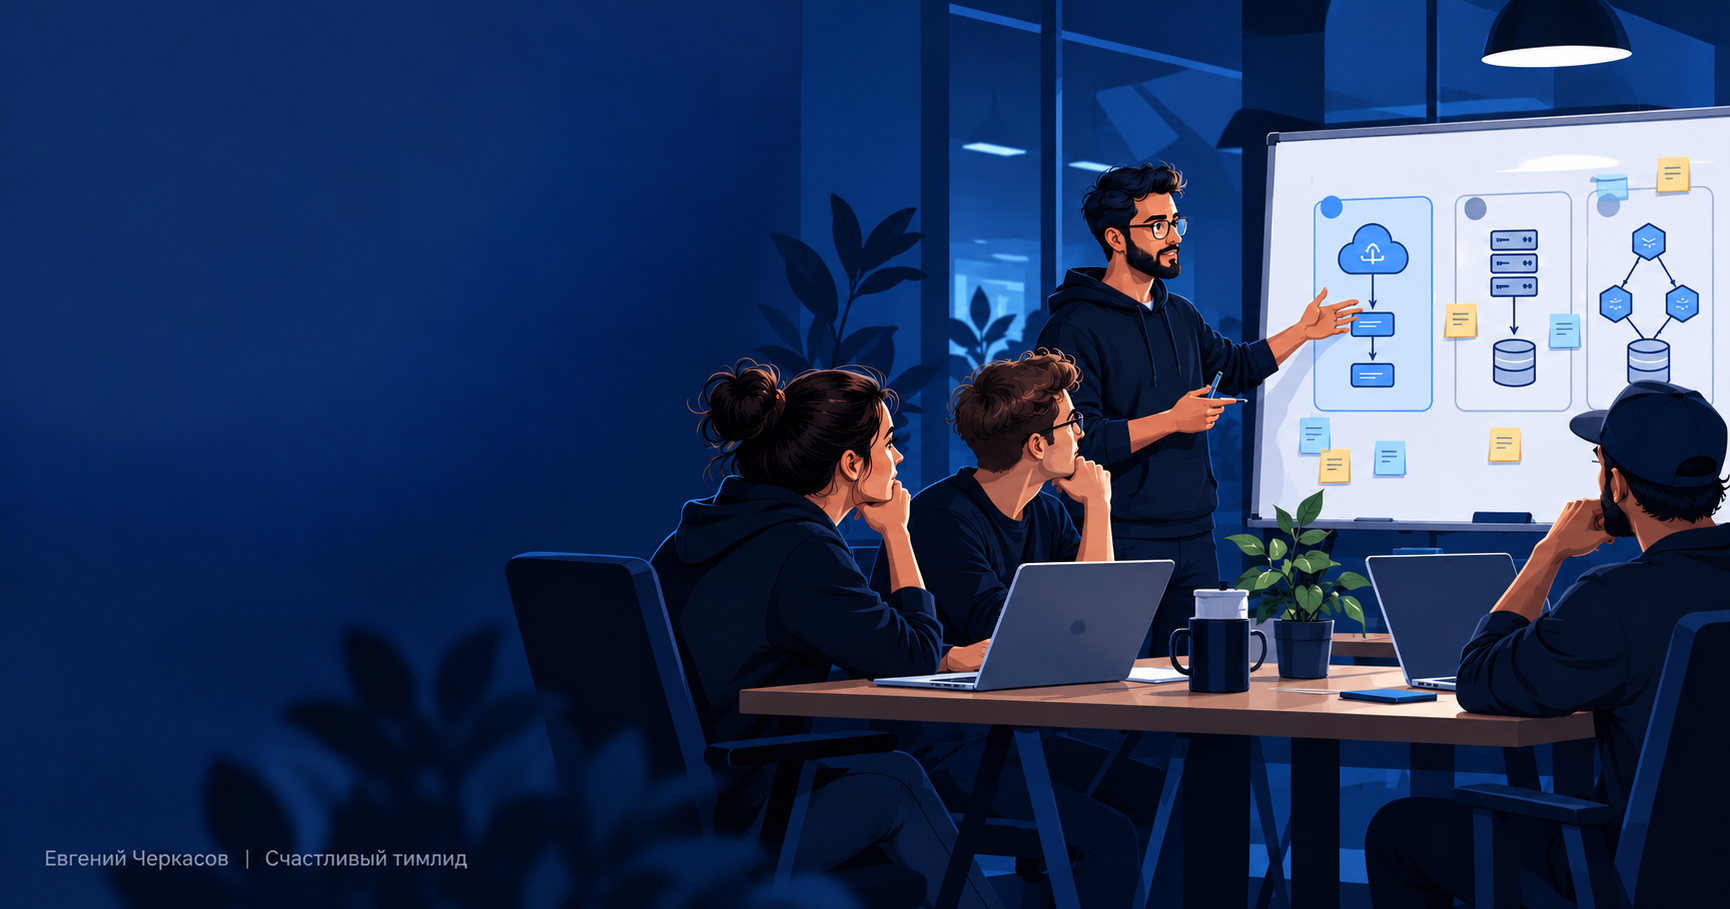
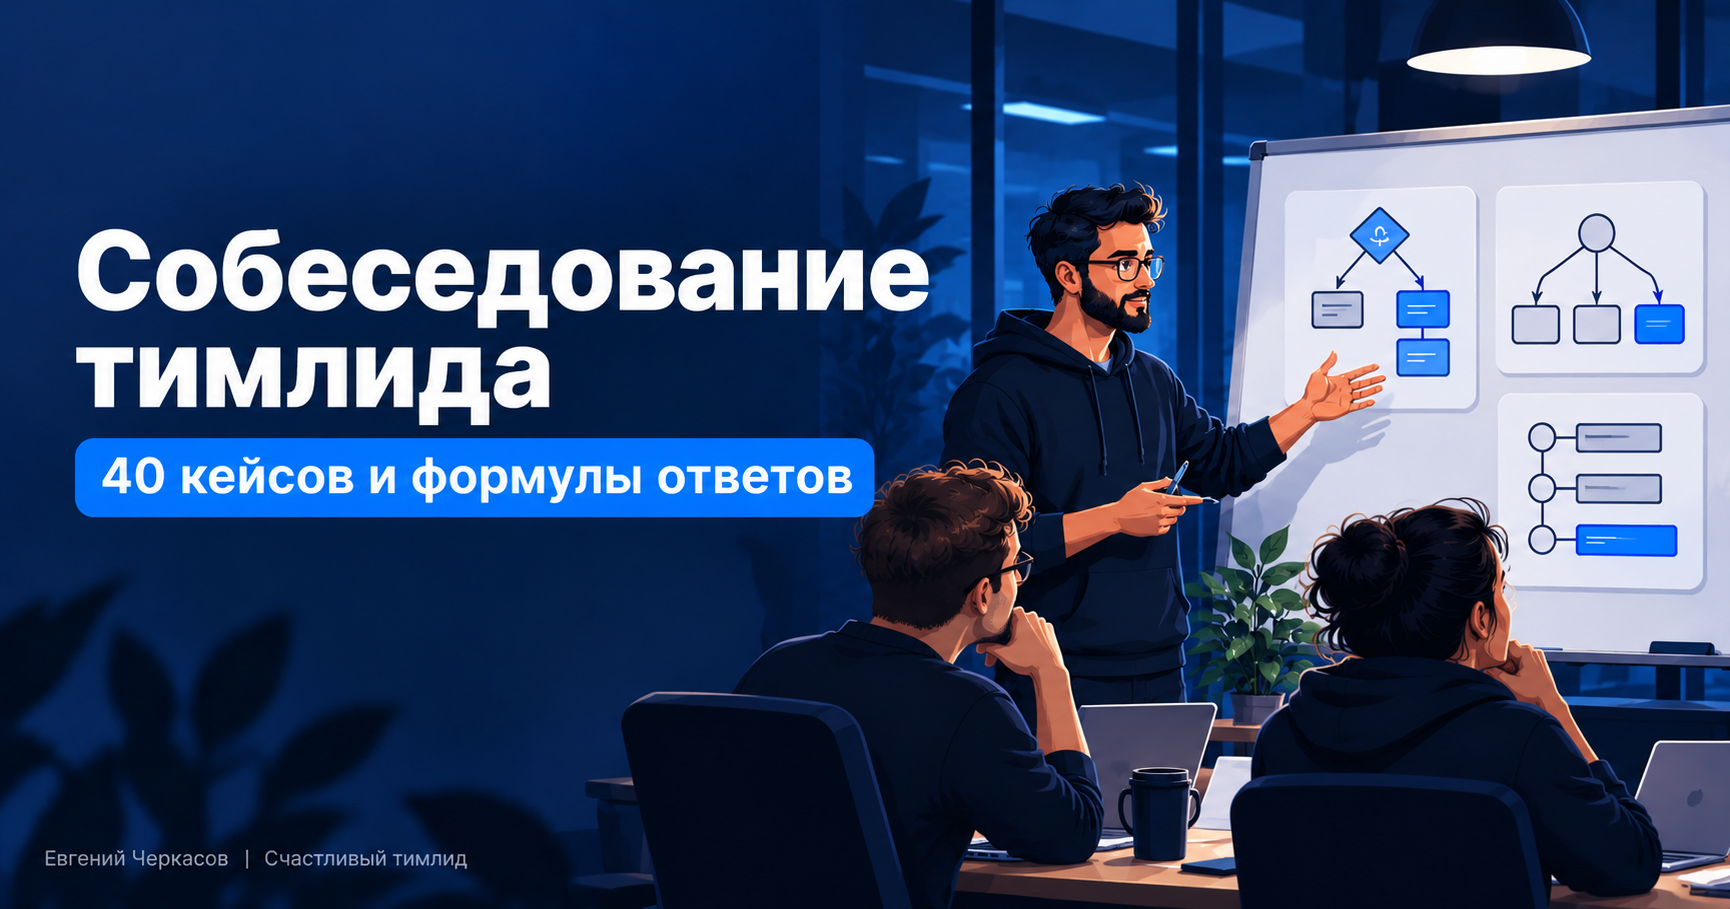
Обновил OG-изображение собеседования

diff --git a/src/content/blog/sobesedovanie-na-timlida.md b/src/content/blog/sobesedovanie-na-timlida.md
@@ -4,7 +4,7 @@ seoTitle: 'Собеседование на тимлида: 40 кейсов с п
 description: 'Готовитесь к собеседованию на тимлида? Разберите 40 управленческих кейсов с пошаговыми формулами и примерами из IT: конфликты, дедлайны, техдолг.'
 ogTitle: '40 управленческих кейсов для собеседования тимлида'
 ogDescription: 'Что делать, если команда срывает сроки, разработчики конфликтуют, а бизнес требует срочный релиз? 40 формул с пошаговыми примерами.'
-ogImage: '/og/teamlead-interview.png'
+ogImage: '/og/teamlead-interview-v2.png'
 pubDate: '2026-10-18'
 ---
 
